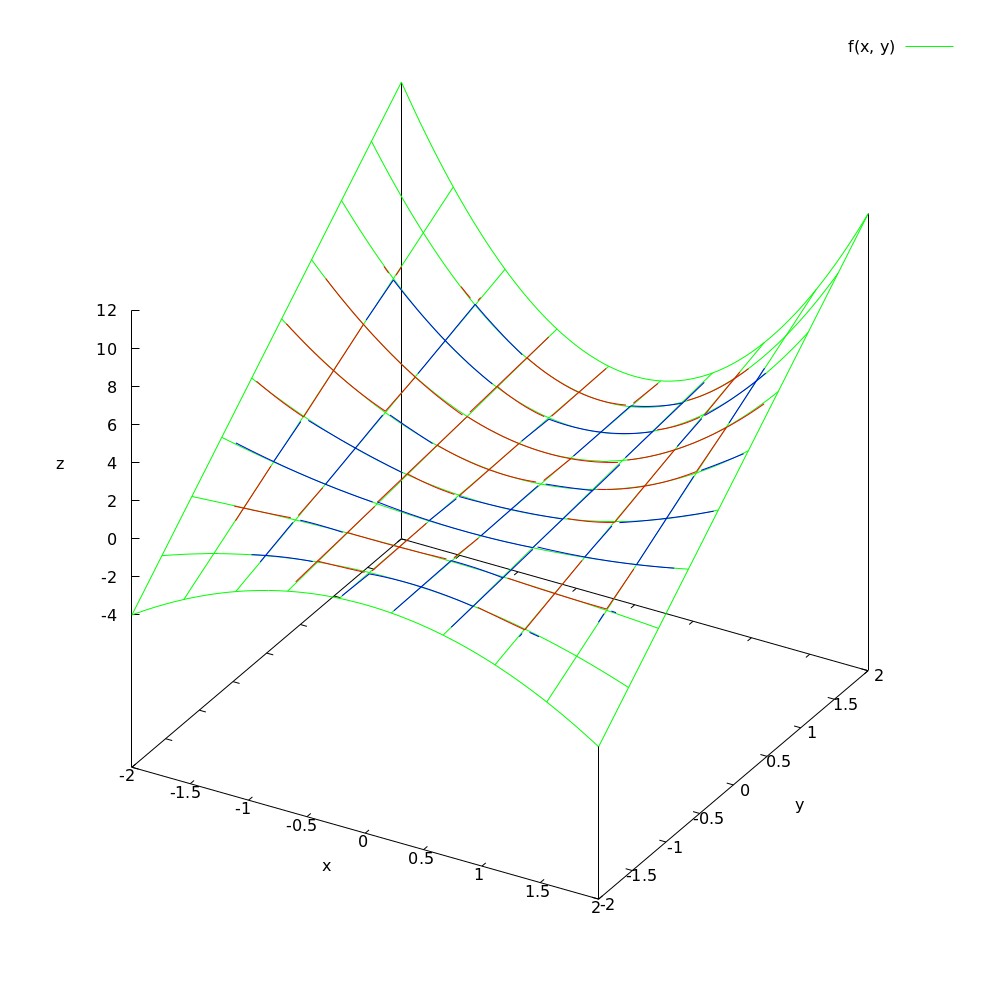
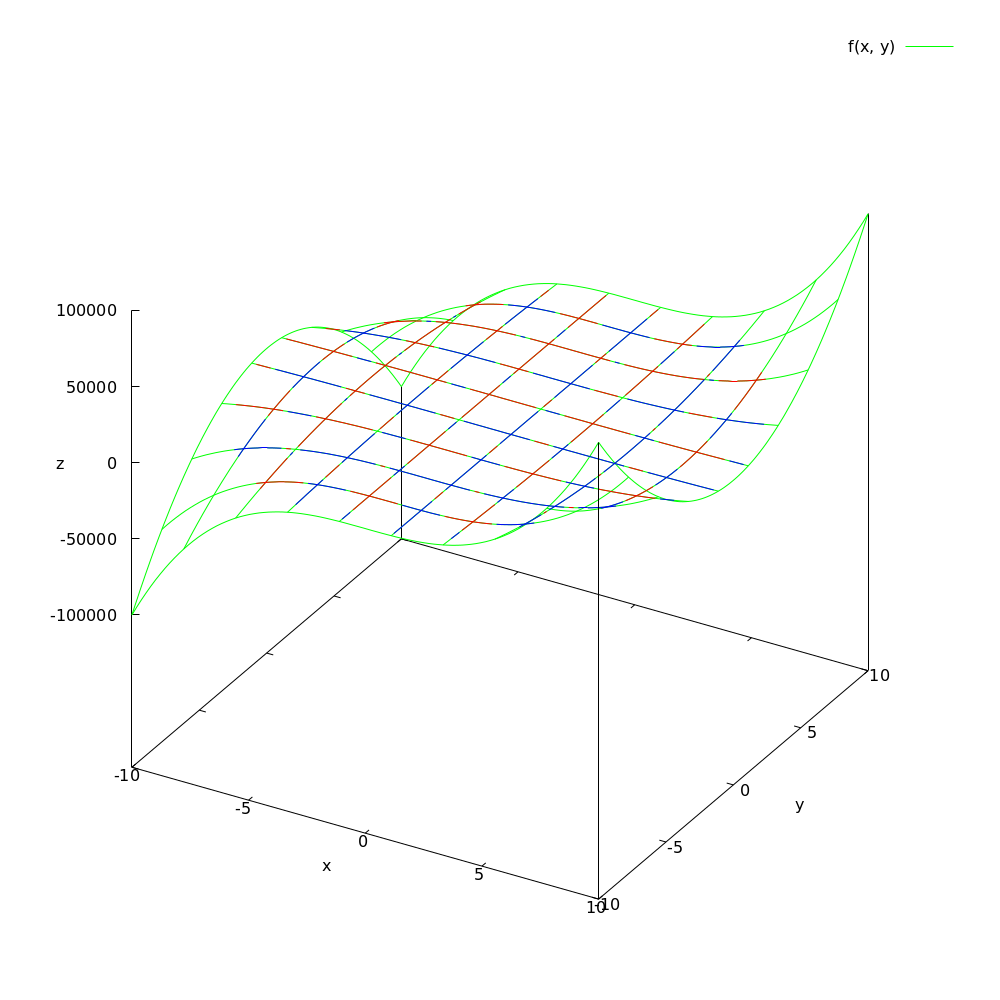
легчайше

diff --git a/sem_6/5/main.cpp b/sem_6/5/main.cpp
@@ -40,7 +40,7 @@ int main(void){
     std::ofstream scriptFile("plot_script.gp");
     scriptFile << "set terminal pngcairo enhanced color size 1000,1000\n";
     scriptFile << "set output 'Triangulation.png'\n";
-    scriptFile << "f(x, y) =  ((x*y*x) + x*x) \n";
+    scriptFile << "f(x, y) =  (x*y*x*y*x) \n";
     int k;
     double d_x = 2 * x / n;
     double d_y = 2 * y / n;
@@ -53,11 +53,11 @@ int main(void){
             if(j%2 == 0){     
                 x1 = -x + d_x * (j/2);       
                 y1 = y - d_y * i; 
-                scriptFile << "p_" << k << "(x, y) =  ( (x/" << x << ")**2 + (y/" << y << ")**2 > 1) ? 1/0 : ("<< x1 <<" < x && x < "<< x1 + d_x << " && (" << y1 - d_y << " + " << d_y / d_x << "*(x - " << x1 << ")) < y && y < " << y1 << ") ? " << polynomials[k][0] << "*(x**2) + " << polynomials[k][1] << "*(x*y) + " << polynomials[k][2] << "*(y**2) + " << polynomials[k][3] << "*(x) + " << polynomials[k][4] << "*(y) + " << polynomials[k][5] << ": 1/0\n";
+                scriptFile << "p_" << k << "(x, y) =  ( (x/" << x << ")**2 + (y/" << y << ")**2 > 1) ? 1/0 : ("<< x1 <<" < x && x < "<< x1 + d_x << " && (" << y1 - d_y << " + " << d_y / d_x << "*(x - " << x1 << ")) < y && y < " << y1 << ") ? " << polynomials[k][0] << "*(x**3) + " << polynomials[k][1] << "*(x*x*y) + " << polynomials[k][2] << "*(x*y*y) + " << polynomials[k][3] << "*(y**3) + " << polynomials[k][4] << "*(x**2) + " << polynomials[k][5] << "*(x*y) + " << polynomials[k][6] << "*(y**2) + " << polynomials[k][7] << "*(x) + " << polynomials[k][8] << "*(y) + " << polynomials[k][9] << ": 1/0\n";
             }else{    
                 x1 = -x + d_x * ((j/2) + 1);  
                 y1 = y - d_y * i;                     
-                scriptFile << "p_" << k << "(x, y) =  ( (x/" << x << ")**2 + (y/" << y << ")**2 > 1) ? 1/0 : ("<< x1 - d_x <<" < x && x < "<< x1 <<" && " << y1 - d_y << " < y && y < (" << y1 - d_y << " + " << d_y / d_x << "*(x - " << x1 - d_x << "))) ? " << polynomials[k][0] << "*(x**2) + " << polynomials[k][1] << "*(x*y) + " << polynomials[k][2] << "*(y**2) + " << polynomials[k][3] << "*(x) + " << polynomials[k][4] << "*(y) + " << polynomials[k][5] << ": 1/0\n";
+                scriptFile << "p_" << k << "(x, y) =  ( (x/" << x << ")**2 + (y/" << y << ")**2 > 1) ? 1/0 : ("<< x1 - d_x <<" < x && x < "<< x1 <<" && " << y1 - d_y << " < y && y < (" << y1 - d_y << " + " << d_y / d_x << "*(x - " << x1 - d_x << "))) ? " << polynomials[k][0] << "*(x**3) + " << polynomials[k][1] << "*(x*x*y) + " << polynomials[k][2] << "*(x*y*y) + " << polynomials[k][3] << "*(y**3) + " << polynomials[k][4] << "*(x**2) + " << polynomials[k][5] << "*(x*y) + " << polynomials[k][6] << "*(y**2) + " << polynomials[k][7] << "*(x) + " << polynomials[k][8] << "*(y) + " << polynomials[k][9] << ": 1/0\n";
             }
             
         }
@@ -93,13 +93,13 @@ int main(void){
 }
 
 double function(double x, double y){
-    return (x*y*x) + x*x;
+    return (x*y*x*y*x);
 }
 
 int interpolation(int n, double** coeff, double x, double y){
     double d_x = 2 * x / n;
     double d_y = 2 * y / n;
-    double x1, x2, x3, y1, y2, y3, new_x1, new_x2, new_x3, new_y1, new_y2, new_y3;
+    double x1, x2, x3, y1, y2, y3;
     int k;
             
     for(int i = 0; i < n; i++){
@@ -121,16 +121,10 @@ int interpolation(int n, double** coeff, double x, double y){
                 y3 = y1 - d_y;
             }
 
-            new_x1 = (10*x1 + x2 + x3)/12;
-            new_y1 = (10*y1 + y2 + y3)/12;
-            new_x2 = (10*x2 + x1 + x3)/12;
-            new_y2 = (10*y2 + y1 + y3)/12;
-            new_x3 = (10*x3 + x2 + x1)/12;
-            new_y3 = (10*y3 + y2 + y1)/12;
 
             k = i * 2 * n + j;
 
-            triangle_interpol(new_x1, new_y1, new_x2, new_y2, new_x3, new_y3, coeff[k]);
+            triangle_interpol(x1, y1, x2, y2, x3, y3, coeff[k]);
         }
     }
 
@@ -138,80 +132,182 @@ int interpolation(int n, double** coeff, double x, double y){
 }
 
 void triangle_interpol(double x1, double y1, double x2, double y2, double x3, double y3, double* coeff){
-    for(int j = 0; j < 6; j++){
+    for(int j = 0; j < 10; j++){
         coeff[j] = 0;         
     }
 
-    double x4 = (x2 + x3)/2;
-    double y4 = (y2 + y3)/2;
-    double x5 = (x1 + x3)/2;
-    double y5 = (y1 + y3)/2;
-    double x6 = (x1 + x2)/2;
-    double y6 = (y1 + y2)/2;
+    double x4 = (2 * x1 + x2)/3;            //   1   4   5   2
+    double y4 = (2 * y1 + y2)/3;            //   9   10  6
+    double x5 = (2 * x2 + x1)/3;            //   8   7
+    double y5 = (2 * y2 + y1)/3;            //   3
+
+    double x6 = (2 * x2 + x3)/3;
+    double y6 = (2 * y2 + y3)/3;
+    double x7 = (2 * x3 + x2)/3;
+    double y7 = (2 * y3 + y2)/3;
+
+    double x8 = (2 * x3 + x1)/3;
+    double y8 = (2 * y3 + y1)/3;
+    double x9 = (2 * x1 + x3)/3;
+    double y9 = (2 * y1 + y3)/3;
+
+    double x10 = (x1 + x2 + x3)/3;
+    double y10 = (y1 + y2 + y3)/3;
 
     double buf;
     double buf1[3];
     double buf2[3];
+    double buf3[3];
 
     psi(x3, y3, x2, y2, x1, y1, buf1);
-    psi(x5, y5, x6, y6, x1, y1, buf2);
+    psi(x8, y8, x5, y5, x1, y1, buf2);
+    psi(x9, y9, x4, y4, x1, y1, buf3);
     buf = function(x1, y1);
-    coeff[0] += buf*(buf1[0]*buf2[0]);
-    coeff[1] += buf*(buf1[0]*buf2[1] + buf1[1]*buf2[0]);
-    coeff[2] += buf*(buf1[1]*buf2[1]);
-    coeff[3] += buf*(buf1[0]*buf2[2] + buf1[2]*buf2[0]);
-    coeff[4] += buf*(buf1[2]*buf2[1] + buf1[1]*buf2[2]);
-    coeff[5] += buf*(buf1[2]*buf2[2]);
+    coeff[0] += buf*(buf1[0]*buf2[0]*buf3[0]);
+    coeff[1] += buf*(buf1[0]*buf2[0]*buf3[1] + buf1[1]*buf2[0]*buf3[0] + buf1[0]*buf2[1]*buf3[0]);
+    coeff[2] += buf*(buf1[1]*buf2[1]*buf3[0] + buf1[0]*buf2[1]*buf3[1] + buf1[1]*buf2[0]*buf3[1]);
+    coeff[3] += buf*(buf1[1]*buf2[1]*buf3[1]);
+    coeff[4] += buf*(buf1[0]*buf2[0]*buf3[2] + buf1[2]*buf2[0]*buf3[0] + buf1[0]*buf2[2]*buf3[0]);
+    coeff[5] += buf*(buf1[0]*buf2[1]*buf3[2] + buf1[2]*buf2[0]*buf3[1] + buf1[1]*buf2[2]*buf3[0] + buf1[1]*buf2[0]*buf3[2] + buf1[2]*buf2[1]*buf3[0] + buf1[0]*buf2[2]*buf3[1]);
+    coeff[6] += buf*(buf1[1]*buf2[1]*buf3[2] + buf1[2]*buf2[1]*buf3[1] + buf1[1]*buf2[2]*buf3[1]);
+    coeff[7] += buf*(buf1[0]*buf2[2]*buf3[2] + buf1[2]*buf2[0]*buf3[2] + buf1[2]*buf2[2]*buf3[0]);
+    coeff[8] += buf*(buf1[1]*buf2[2]*buf3[2] + buf1[2]*buf2[1]*buf3[2] + buf1[2]*buf2[2]*buf3[1]);
+    coeff[9] += buf*(buf1[2]*buf2[2]*buf3[2]);
 
     psi(x3, y3, x1, y1, x2, y2, buf1);
-    psi(x4, y4, x6, y6, x2, y2, buf2);
+    psi(x6, y6, x5, y5, x2, y2, buf2);
+    psi(x7, y7, x4, y4, x2, y2, buf3);
     buf = function(x2, y2);
-    coeff[0] += buf*(buf1[0]*buf2[0]);
-    coeff[1] += buf*(buf1[0]*buf2[1] + buf1[1]*buf2[0]);
-    coeff[2] += buf*(buf1[1]*buf2[1]);
-    coeff[3] += buf*(buf1[0]*buf2[2] + buf1[2]*buf2[0]);
-    coeff[4] += buf*(buf1[2]*buf2[1] + buf1[1]*buf2[2]);
-    coeff[5] += buf*(buf1[2]*buf2[2]);
+    coeff[0] += buf*(buf1[0]*buf2[0]*buf3[0]);
+    coeff[1] += buf*(buf1[0]*buf2[0]*buf3[1] + buf1[1]*buf2[0]*buf3[0] + buf1[0]*buf2[1]*buf3[0]);
+    coeff[2] += buf*(buf1[1]*buf2[1]*buf3[0] + buf1[0]*buf2[1]*buf3[1] + buf1[1]*buf2[0]*buf3[1]);
+    coeff[3] += buf*(buf1[1]*buf2[1]*buf3[1]);
+    coeff[4] += buf*(buf1[0]*buf2[0]*buf3[2] + buf1[2]*buf2[0]*buf3[0] + buf1[0]*buf2[2]*buf3[0]);
+    coeff[5] += buf*(buf1[0]*buf2[1]*buf3[2] + buf1[2]*buf2[0]*buf3[1] + buf1[1]*buf2[2]*buf3[0] + buf1[1]*buf2[0]*buf3[2] + buf1[2]*buf2[1]*buf3[0] + buf1[0]*buf2[2]*buf3[1]);
+    coeff[6] += buf*(buf1[1]*buf2[1]*buf3[2] + buf1[2]*buf2[1]*buf3[1] + buf1[1]*buf2[2]*buf3[1]);
+    coeff[7] += buf*(buf1[0]*buf2[2]*buf3[2] + buf1[2]*buf2[0]*buf3[2] + buf1[2]*buf2[2]*buf3[0]);
+    coeff[8] += buf*(buf1[1]*buf2[2]*buf3[2] + buf1[2]*buf2[1]*buf3[2] + buf1[2]*buf2[2]*buf3[1]);
+    coeff[9] += buf*(buf1[2]*buf2[2]*buf3[2]);
 
     psi(x1, y1, x2, y2, x3, y3, buf1);
-    psi(x5, y5, x4, y4, x3, y3, buf2);
+    psi(x8, y8, x7, y7, x3, y3, buf2);
+    psi(x9, y9, x6, y6, x3, y3, buf3);
     buf = function(x3, y3);
-    coeff[0] += buf*(buf1[0]*buf2[0]);
-    coeff[1] += buf*(buf1[0]*buf2[1] + buf1[1]*buf2[0]);
-    coeff[2] += buf*(buf1[1]*buf2[1]);
-    coeff[3] += buf*(buf1[0]*buf2[2] + buf1[2]*buf2[0]);
-    coeff[4] += buf*(buf1[2]*buf2[1] + buf1[1]*buf2[2]);
-    coeff[5] += buf*(buf1[2]*buf2[2]);
+    coeff[0] += buf*(buf1[0]*buf2[0]*buf3[0]);
+    coeff[1] += buf*(buf1[0]*buf2[0]*buf3[1] + buf1[1]*buf2[0]*buf3[0] + buf1[0]*buf2[1]*buf3[0]);
+    coeff[2] += buf*(buf1[1]*buf2[1]*buf3[0] + buf1[0]*buf2[1]*buf3[1] + buf1[1]*buf2[0]*buf3[1]);
+    coeff[3] += buf*(buf1[1]*buf2[1]*buf3[1]);
+    coeff[4] += buf*(buf1[0]*buf2[0]*buf3[2] + buf1[2]*buf2[0]*buf3[0] + buf1[0]*buf2[2]*buf3[0]);
+    coeff[5] += buf*(buf1[0]*buf2[1]*buf3[2] + buf1[2]*buf2[0]*buf3[1] + buf1[1]*buf2[2]*buf3[0] + buf1[1]*buf2[0]*buf3[2] + buf1[2]*buf2[1]*buf3[0] + buf1[0]*buf2[2]*buf3[1]);
+    coeff[6] += buf*(buf1[1]*buf2[1]*buf3[2] + buf1[2]*buf2[1]*buf3[1] + buf1[1]*buf2[2]*buf3[1]);
+    coeff[7] += buf*(buf1[0]*buf2[2]*buf3[2] + buf1[2]*buf2[0]*buf3[2] + buf1[2]*buf2[2]*buf3[0]);
+    coeff[8] += buf*(buf1[1]*buf2[2]*buf3[2] + buf1[2]*buf2[1]*buf3[2] + buf1[2]*buf2[2]*buf3[1]);
+    coeff[9] += buf*(buf1[2]*buf2[2]*buf3[2]);
 
     psi(x3, y3, x1, y1, x4, y4, buf1);
-    psi(x2, y2, x1, y1, x4, y4, buf2);
+    psi(x8, y8, x5, y5, x4, y4, buf2);
+    psi(x3, y3, x2, y2, x4, y4, buf3);
     buf = function(x4, y4);
-    coeff[0] += buf*(buf1[0]*buf2[0]);
-    coeff[1] += buf*(buf1[0]*buf2[1] + buf1[1]*buf2[0]);
-    coeff[2] += buf*(buf1[1]*buf2[1]);
-    coeff[3] += buf*(buf1[0]*buf2[2] + buf1[2]*buf2[0]);
-    coeff[4] += buf*(buf1[2]*buf2[1] + buf1[1]*buf2[2]);
-    coeff[5] += buf*(buf1[2]*buf2[2]);
+    coeff[0] += buf*(buf1[0]*buf2[0]*buf3[0]);
+    coeff[1] += buf*(buf1[0]*buf2[0]*buf3[1] + buf1[1]*buf2[0]*buf3[0] + buf1[0]*buf2[1]*buf3[0]);
+    coeff[2] += buf*(buf1[1]*buf2[1]*buf3[0] + buf1[0]*buf2[1]*buf3[1] + buf1[1]*buf2[0]*buf3[1]);
+    coeff[3] += buf*(buf1[1]*buf2[1]*buf3[1]);
+    coeff[4] += buf*(buf1[0]*buf2[0]*buf3[2] + buf1[2]*buf2[0]*buf3[0] + buf1[0]*buf2[2]*buf3[0]);
+    coeff[5] += buf*(buf1[0]*buf2[1]*buf3[2] + buf1[2]*buf2[0]*buf3[1] + buf1[1]*buf2[2]*buf3[0] + buf1[1]*buf2[0]*buf3[2] + buf1[2]*buf2[1]*buf3[0] + buf1[0]*buf2[2]*buf3[1]);
+    coeff[6] += buf*(buf1[1]*buf2[1]*buf3[2] + buf1[2]*buf2[1]*buf3[1] + buf1[1]*buf2[2]*buf3[1]);
+    coeff[7] += buf*(buf1[0]*buf2[2]*buf3[2] + buf1[2]*buf2[0]*buf3[2] + buf1[2]*buf2[2]*buf3[0]);
+    coeff[8] += buf*(buf1[1]*buf2[2]*buf3[2] + buf1[2]*buf2[1]*buf3[2] + buf1[2]*buf2[2]*buf3[1]);
+    coeff[9] += buf*(buf1[2]*buf2[2]*buf3[2]);
 
-    psi(x3, y3, x2, y2, x5, y5, buf1);
-    psi(x2, y2, x1, y1, x5, y5, buf2);
+    psi(x3, y3, x1, y1, x5, y5, buf1);
+    psi(x7, y7, x4, y4, x5, y5, buf2);
+    psi(x3, y3, x2, y2, x5, y5, buf3);
     buf = function(x5, y5);
-    coeff[0] += buf*(buf1[0]*buf2[0]);
-    coeff[1] += buf*(buf1[0]*buf2[1] + buf1[1]*buf2[0]);
-    coeff[2] += buf*(buf1[1]*buf2[1]);
-    coeff[3] += buf*(buf1[0]*buf2[2] + buf1[2]*buf2[0]);
-    coeff[4] += buf*(buf1[2]*buf2[1] + buf1[1]*buf2[2]);
-    coeff[5] += buf*(buf1[2]*buf2[2]);
+    coeff[0] += buf*(buf1[0]*buf2[0]*buf3[0]);
+    coeff[1] += buf*(buf1[0]*buf2[0]*buf3[1] + buf1[1]*buf2[0]*buf3[0] + buf1[0]*buf2[1]*buf3[0]);
+    coeff[2] += buf*(buf1[1]*buf2[1]*buf3[0] + buf1[0]*buf2[1]*buf3[1] + buf1[1]*buf2[0]*buf3[1]);
+    coeff[3] += buf*(buf1[1]*buf2[1]*buf3[1]);
+    coeff[4] += buf*(buf1[0]*buf2[0]*buf3[2] + buf1[2]*buf2[0]*buf3[0] + buf1[0]*buf2[2]*buf3[0]);
+    coeff[5] += buf*(buf1[0]*buf2[1]*buf3[2] + buf1[2]*buf2[0]*buf3[1] + buf1[1]*buf2[2]*buf3[0] + buf1[1]*buf2[0]*buf3[2] + buf1[2]*buf2[1]*buf3[0] + buf1[0]*buf2[2]*buf3[1]);
+    coeff[6] += buf*(buf1[1]*buf2[1]*buf3[2] + buf1[2]*buf2[1]*buf3[1] + buf1[1]*buf2[2]*buf3[1]);
+    coeff[7] += buf*(buf1[0]*buf2[2]*buf3[2] + buf1[2]*buf2[0]*buf3[2] + buf1[2]*buf2[2]*buf3[0]);
+    coeff[8] += buf*(buf1[1]*buf2[2]*buf3[2] + buf1[2]*buf2[1]*buf3[2] + buf1[2]*buf2[2]*buf3[1]);
+    coeff[9] += buf*(buf1[2]*buf2[2]*buf3[2]);
 
     psi(x3, y3, x1, y1, x6, y6, buf1);
-    psi(x2, y2, x3, y3, x6, y6, buf2);
+    psi(x4, y4, x7, y7, x6, y6, buf2);
+    psi(x1, y1, x2, y2, x6, y6, buf3);
     buf = function(x6, y6);
-    coeff[0] += buf*(buf1[0]*buf2[0]);
-    coeff[1] += buf*(buf1[0]*buf2[1] + buf1[1]*buf2[0]);
-    coeff[2] += buf*(buf1[1]*buf2[1]);
-    coeff[3] += buf*(buf1[0]*buf2[2] + buf1[2]*buf2[0]);
-    coeff[4] += buf*(buf1[2]*buf2[1] + buf1[1]*buf2[2]);
-    coeff[5] += buf*(buf1[2]*buf2[2]);
+    coeff[0] += buf*(buf1[0]*buf2[0]*buf3[0]);
+    coeff[1] += buf*(buf1[0]*buf2[0]*buf3[1] + buf1[1]*buf2[0]*buf3[0] + buf1[0]*buf2[1]*buf3[0]);
+    coeff[2] += buf*(buf1[1]*buf2[1]*buf3[0] + buf1[0]*buf2[1]*buf3[1] + buf1[1]*buf2[0]*buf3[1]);
+    coeff[3] += buf*(buf1[1]*buf2[1]*buf3[1]);
+    coeff[4] += buf*(buf1[0]*buf2[0]*buf3[2] + buf1[2]*buf2[0]*buf3[0] + buf1[0]*buf2[2]*buf3[0]);
+    coeff[5] += buf*(buf1[0]*buf2[1]*buf3[2] + buf1[2]*buf2[0]*buf3[1] + buf1[1]*buf2[2]*buf3[0] + buf1[1]*buf2[0]*buf3[2] + buf1[2]*buf2[1]*buf3[0] + buf1[0]*buf2[2]*buf3[1]);
+    coeff[6] += buf*(buf1[1]*buf2[1]*buf3[2] + buf1[2]*buf2[1]*buf3[1] + buf1[1]*buf2[2]*buf3[1]);
+    coeff[7] += buf*(buf1[0]*buf2[2]*buf3[2] + buf1[2]*buf2[0]*buf3[2] + buf1[2]*buf2[2]*buf3[0]);
+    coeff[8] += buf*(buf1[1]*buf2[2]*buf3[2] + buf1[2]*buf2[1]*buf3[2] + buf1[2]*buf2[2]*buf3[1]);
+    coeff[9] += buf*(buf1[2]*buf2[2]*buf3[2]);
+
+    psi(x3, y3, x1, y1, x7, y7, buf1);
+    psi(x9, y9, x6, y6, x7, y7, buf2);
+    psi(x1, y1, x2, y2, x7, y7, buf3);
+    buf = function(x7, y7);
+    coeff[0] += buf*(buf1[0]*buf2[0]*buf3[0]);
+    coeff[1] += buf*(buf1[0]*buf2[0]*buf3[1] + buf1[1]*buf2[0]*buf3[0] + buf1[0]*buf2[1]*buf3[0]);
+    coeff[2] += buf*(buf1[1]*buf2[1]*buf3[0] + buf1[0]*buf2[1]*buf3[1] + buf1[1]*buf2[0]*buf3[1]);
+    coeff[3] += buf*(buf1[1]*buf2[1]*buf3[1]);
+    coeff[4] += buf*(buf1[0]*buf2[0]*buf3[2] + buf1[2]*buf2[0]*buf3[0] + buf1[0]*buf2[2]*buf3[0]);
+    coeff[5] += buf*(buf1[0]*buf2[1]*buf3[2] + buf1[2]*buf2[0]*buf3[1] + buf1[1]*buf2[2]*buf3[0] + buf1[1]*buf2[0]*buf3[2] + buf1[2]*buf2[1]*buf3[0] + buf1[0]*buf2[2]*buf3[1]);
+    coeff[6] += buf*(buf1[1]*buf2[1]*buf3[2] + buf1[2]*buf2[1]*buf3[1] + buf1[1]*buf2[2]*buf3[1]);
+    coeff[7] += buf*(buf1[0]*buf2[2]*buf3[2] + buf1[2]*buf2[0]*buf3[2] + buf1[2]*buf2[2]*buf3[0]);
+    coeff[8] += buf*(buf1[1]*buf2[2]*buf3[2] + buf1[2]*buf2[1]*buf3[2] + buf1[2]*buf2[2]*buf3[1]);
+    coeff[9] += buf*(buf1[2]*buf2[2]*buf3[2]);
+
+    psi(x3, y3, x2, y2, x8, y8, buf1);
+    psi(x9, y9, x6, y6, x8, y8, buf2);
+    psi(x1, y1, x2, y2, x8, y8, buf3);
+    buf = function(x8, y8);
+    coeff[0] += buf*(buf1[0]*buf2[0]*buf3[0]);
+    coeff[1] += buf*(buf1[0]*buf2[0]*buf3[1] + buf1[1]*buf2[0]*buf3[0] + buf1[0]*buf2[1]*buf3[0]);
+    coeff[2] += buf*(buf1[1]*buf2[1]*buf3[0] + buf1[0]*buf2[1]*buf3[1] + buf1[1]*buf2[0]*buf3[1]);
+    coeff[3] += buf*(buf1[1]*buf2[1]*buf3[1]);
+    coeff[4] += buf*(buf1[0]*buf2[0]*buf3[2] + buf1[2]*buf2[0]*buf3[0] + buf1[0]*buf2[2]*buf3[0]);
+    coeff[5] += buf*(buf1[0]*buf2[1]*buf3[2] + buf1[2]*buf2[0]*buf3[1] + buf1[1]*buf2[2]*buf3[0] + buf1[1]*buf2[0]*buf3[2] + buf1[2]*buf2[1]*buf3[0] + buf1[0]*buf2[2]*buf3[1]);
+    coeff[6] += buf*(buf1[1]*buf2[1]*buf3[2] + buf1[2]*buf2[1]*buf3[1] + buf1[1]*buf2[2]*buf3[1]);
+    coeff[7] += buf*(buf1[0]*buf2[2]*buf3[2] + buf1[2]*buf2[0]*buf3[2] + buf1[2]*buf2[2]*buf3[0]);
+    coeff[8] += buf*(buf1[1]*buf2[2]*buf3[2] + buf1[2]*buf2[1]*buf3[2] + buf1[2]*buf2[2]*buf3[1]);
+    coeff[9] += buf*(buf1[2]*buf2[2]*buf3[2]);
+
+    psi(x3, y3, x2, y2, x9, y9, buf1);
+    psi(x5, y5, x8, y8, x9, y9, buf2);
+    psi(x1, y1, x2, y2, x9, y9, buf3);
+    buf = function(x9, y9);
+    coeff[0] += buf*(buf1[0]*buf2[0]*buf3[0]);
+    coeff[1] += buf*(buf1[0]*buf2[0]*buf3[1] + buf1[1]*buf2[0]*buf3[0] + buf1[0]*buf2[1]*buf3[0]);
+    coeff[2] += buf*(buf1[1]*buf2[1]*buf3[0] + buf1[0]*buf2[1]*buf3[1] + buf1[1]*buf2[0]*buf3[1]);
+    coeff[3] += buf*(buf1[1]*buf2[1]*buf3[1]);
+    coeff[4] += buf*(buf1[0]*buf2[0]*buf3[2] + buf1[2]*buf2[0]*buf3[0] + buf1[0]*buf2[2]*buf3[0]);
+    coeff[5] += buf*(buf1[0]*buf2[1]*buf3[2] + buf1[2]*buf2[0]*buf3[1] + buf1[1]*buf2[2]*buf3[0] + buf1[1]*buf2[0]*buf3[2] + buf1[2]*buf2[1]*buf3[0] + buf1[0]*buf2[2]*buf3[1]);
+    coeff[6] += buf*(buf1[1]*buf2[1]*buf3[2] + buf1[2]*buf2[1]*buf3[1] + buf1[1]*buf2[2]*buf3[1]);
+    coeff[7] += buf*(buf1[0]*buf2[2]*buf3[2] + buf1[2]*buf2[0]*buf3[2] + buf1[2]*buf2[2]*buf3[0]);
+    coeff[8] += buf*(buf1[1]*buf2[2]*buf3[2] + buf1[2]*buf2[1]*buf3[2] + buf1[2]*buf2[2]*buf3[1]);
+    coeff[9] += buf*(buf1[2]*buf2[2]*buf3[2]);
+
+    psi(x3, y3, x2, y2, x10, y10, buf1);
+    psi(x2, y2, x1, y1, x10, y10, buf2);
+    psi(x1, y1, x3, y3, x10, y10, buf3);
+    buf = function(x10, y10);
+    coeff[0] += buf*(buf1[0]*buf2[0]*buf3[0]);
+    coeff[1] += buf*(buf1[0]*buf2[0]*buf3[1] + buf1[1]*buf2[0]*buf3[0] + buf1[0]*buf2[1]*buf3[0]);
+    coeff[2] += buf*(buf1[1]*buf2[1]*buf3[0] + buf1[0]*buf2[1]*buf3[1] + buf1[1]*buf2[0]*buf3[1]);
+    coeff[3] += buf*(buf1[1]*buf2[1]*buf3[1]);
+    coeff[4] += buf*(buf1[0]*buf2[0]*buf3[2] + buf1[2]*buf2[0]*buf3[0] + buf1[0]*buf2[2]*buf3[0]);
+    coeff[5] += buf*(buf1[0]*buf2[1]*buf3[2] + buf1[2]*buf2[0]*buf3[1] + buf1[1]*buf2[2]*buf3[0] + buf1[1]*buf2[0]*buf3[2] + buf1[2]*buf2[1]*buf3[0] + buf1[0]*buf2[2]*buf3[1]);
+    coeff[6] += buf*(buf1[1]*buf2[1]*buf3[2] + buf1[2]*buf2[1]*buf3[1] + buf1[1]*buf2[2]*buf3[1]);
+    coeff[7] += buf*(buf1[0]*buf2[2]*buf3[2] + buf1[2]*buf2[0]*buf3[2] + buf1[2]*buf2[2]*buf3[0]);
+    coeff[8] += buf*(buf1[1]*buf2[2]*buf3[2] + buf1[2]*buf2[1]*buf3[2] + buf1[2]*buf2[2]*buf3[1]);
+    coeff[9] += buf*(buf1[2]*buf2[2]*buf3[2]);
 }
 
 void psi(double x1, double y1, double x2, double y2, double x0, double y0, double* coeff){ //в (x0, y0) единица
